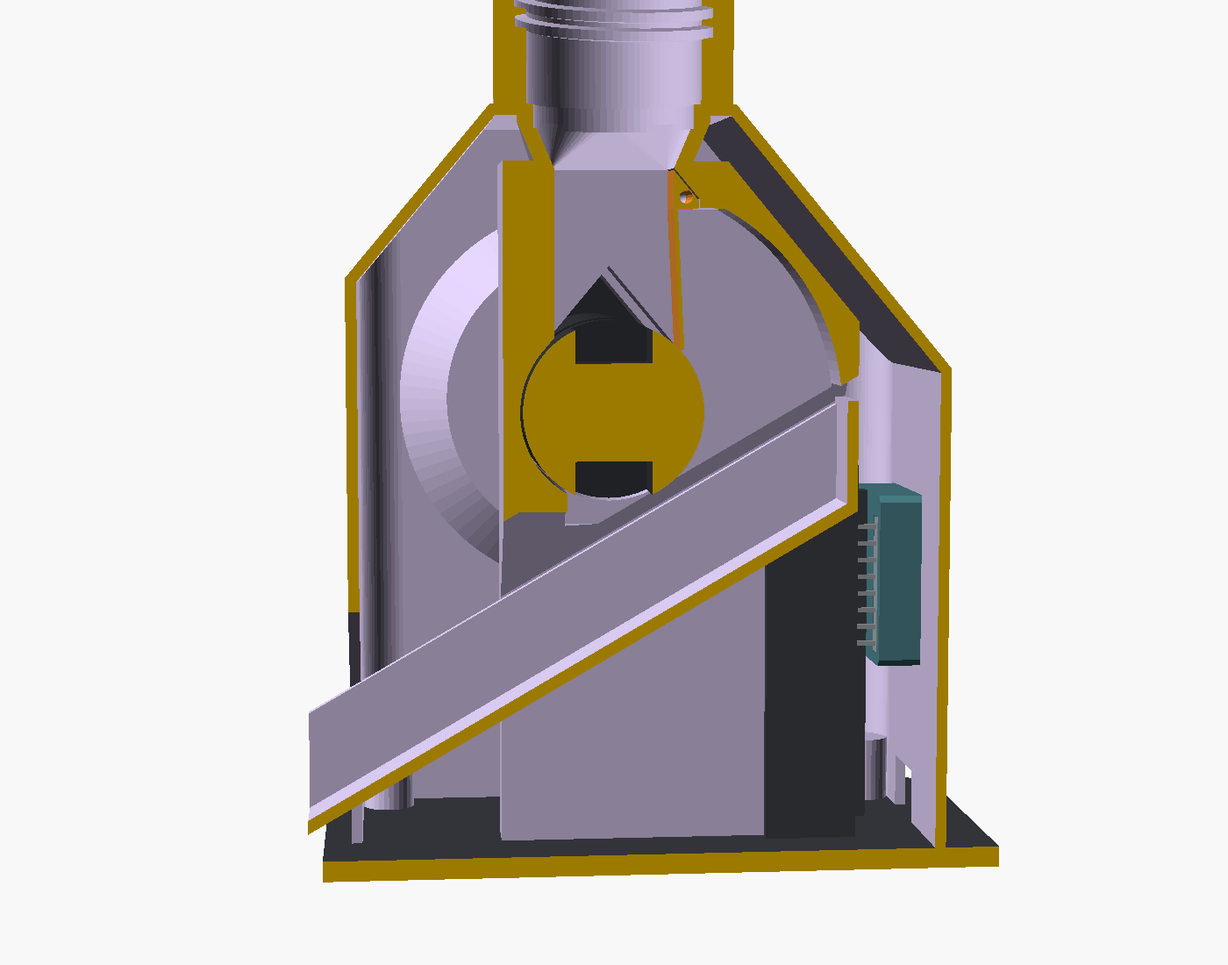
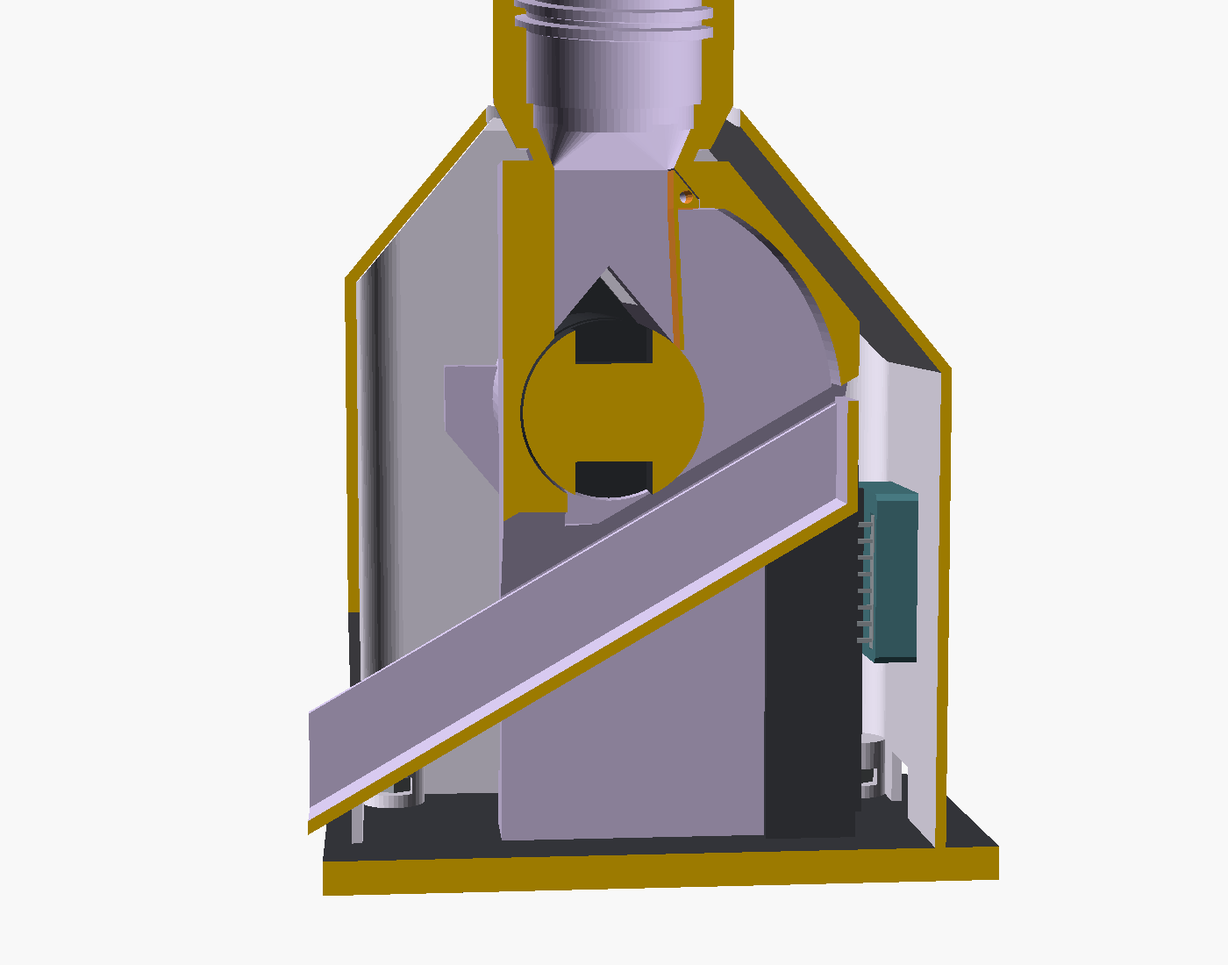
feat(treat-dispenser): fastener and wiring checks, docs for the inner/outer body split
- Renderer: every nut bay open at the nut and its slot's mouth, solid beside its flats; one teardrop for the sleeve (no
  coincident faces with the lugs: no float32 sliver repairs).
- Views tool: views inside (the outer body left out) and the jumper wires' room measured on the meshes.
- Browser: the live assembly shows the inner and outer bodies, the motor, the ULN2003 and all 16 screws and 16 nuts; the outer
  body hides.
- Docs, print notes and description: inner and outer bodies, M3 nuts and screws, service, both header rows wireable.

diff --git a/tools/test-renderer.ts b/tools/test-renderer.ts
@@ -3,7 +3,7 @@ import { mkdtemp, readFile, rm } from 'node:fs/promises';
 import { tmpdir } from 'node:os';
 import { join } from 'node:path';
 import { unzipSync } from 'fflate';
-import { DEFAULT_TREAT_DISPENSER, poseLocal, treatDispenser, treatDispenserLayout, treatPartPoses, type TreatDispenserParameters, ESP32_CASE_HEADER_OPENINGS, ESP32_CASE_HEADER_DEFINES, ESP32_CASE_LEDS, esp32C3SuperminiCase, cameraHousing, cameraHousingLayout, CAMERA_HARDWARE, DEFAULT_CAMERA_HOUSING, type CameraHousingParameters, activeParts, magneticCatToy, magneticCatToyLayout, TOY, catCollarTag, catCollarTagSettings, collarTagLayout, COLLAR_TAG_SHAPES, springBallDetent, springBallDetentLayout, type SpringBallDetentSize, printedCornerBracket, printedScreenHook, printedScreenHookShape, maxLogoSize, QR_TAG, QR_TAG_JOINTS, QR_TAG_SHAPES, qrMagnetTag, qrTagCode, qrTagLayout, qrTagSettings, type QrMagnetTagParameters, aiRubberDuck, AI_DUCK_VARIANTS, CASE_MAGNETS, cigaretteCase, findPart, SNAP_TUNING, fruitFlyTrap, holeDiameter, LATCH_MACHINE_SCREWS, LATCH_WOOD_SCREWS, litterShovel, mossPlanter, plankConnector, pressurePad, SCOOP_BLADE, windowCatGuard, windowCatGuardLayout, WINDOW_CAT_GUARD, WINDOW_CAT_GUARD_SPLICE, type WindowCatGuardParameters, toggleLatch, outsideCornerToggleLatch, cornerLatchLayout, latchScrewHoles, dimensionOf, type OutsideCornerToggleLatchParameters, sieveGaps, svgToLogo, textWidth, validateParameters, type LitterShovelParameters, type ParameterValues } from '@canfactory/contracts';
+import { DEFAULT_TREAT_DISPENSER, poseLocal, treatBolts, treatDispenser, treatDispenserLayout, treatPartPoses, type TreatDispenserParameters, ESP32_CASE_HEADER_OPENINGS, ESP32_CASE_HEADER_DEFINES, ESP32_CASE_LEDS, esp32C3SuperminiCase, cameraHousing, cameraHousingLayout, CAMERA_HARDWARE, DEFAULT_CAMERA_HOUSING, type CameraHousingParameters, activeParts, magneticCatToy, magneticCatToyLayout, TOY, catCollarTag, catCollarTagSettings, collarTagLayout, COLLAR_TAG_SHAPES, springBallDetent, springBallDetentLayout, type SpringBallDetentSize, printedCornerBracket, printedScreenHook, printedScreenHookShape, maxLogoSize, QR_TAG, QR_TAG_JOINTS, QR_TAG_SHAPES, qrMagnetTag, qrTagCode, qrTagLayout, qrTagSettings, type QrMagnetTagParameters, aiRubberDuck, AI_DUCK_VARIANTS, CASE_MAGNETS, cigaretteCase, findPart, SNAP_TUNING, fruitFlyTrap, holeDiameter, LATCH_MACHINE_SCREWS, LATCH_WOOD_SCREWS, litterShovel, mossPlanter, plankConnector, pressurePad, SCOOP_BLADE, windowCatGuard, windowCatGuardLayout, WINDOW_CAT_GUARD, WINDOW_CAT_GUARD_SPLICE, type WindowCatGuardParameters, toggleLatch, outsideCornerToggleLatch, cornerLatchLayout, latchScrewHoles, dimensionOf, type OutsideCornerToggleLatchParameters, sieveGaps, svgToLogo, textWidth, validateParameters, type LitterShovelParameters, type ParameterValues } from '@canfactory/contracts';
 import { inspectStl, ObjectStorage, PostgresStorage, renderJob, repositoryRoot, selectRunner, WORKER_LIMITS, type MeshRepair, type RenderJob } from '@canfactory/server';
 import { createApp } from '../apps/api/src/app.ts';
 import { startStorageServices } from './storage-services.ts';
@@ -1208,7 +1208,7 @@ try {
     for (const id of Object.keys(entries)) assert.equal(shells(mesh(id.replace(/\.stl$/, ''))), 1, `${name}: ${id} is one closed solid`);
     const l = treatDispenserLayout(parameters), poses = treatPartPoses(l);
     // a point of W inside a part's print
-    const solid = (id: 'inner-body' | 'rotor', point: [number, number, number]) => housingSolid(mesh(id), poseLocal(poses[id], point));
+    const solid = (id: 'inner-body' | 'outer-body' | 'rotor', point: [number, number, number]) => housingSolid(mesh(id), poseLocal(poses[id], point));
     // the rotor: open at both pockets, solid at its core and between them
     assert.equal(solid('rotor', [0, 0, l.axisZ + l.R - l.pocket.depth / 2]), false, `${name}: top pocket`);
     assert.equal(solid('rotor', [0, 0, l.axisZ - l.R + l.pocket.depth / 2]), false, `${name}: bottom pocket`);
@@ -1218,10 +1218,22 @@ try {
     assert.equal(solid('inner-body', [0, (l.R + l.cavityR) / 2, l.axisZ]), false, `${name}: cavity`);
     assert.equal(solid('inner-body', [0, -l.bore.radius - 1, l.axisZ]), true, `${name}: tight bore's wall in front`);
     assert.equal(solid('inner-body', [0, 0, (l.blockTop + l.lipZ) / 2]), false, `${name}: funnel`);
+    // every nut's bay is open at the nut's centre and at the mouth of its slot, in the part that holds it; solid round the hexagon's
+    // corners' side, beyond its flats (the slot is no wider than the flats)
+    for (const bolt of treatBolts(parameters)) {
+      const at = (d: number, e: number, side = 0): [number, number, number] => {
+        const across = [bolt.axis[1] * bolt.entry[2] - bolt.axis[2] * bolt.entry[1], bolt.axis[2] * bolt.entry[0] - bolt.axis[0] * bolt.entry[2], bolt.axis[0] * bolt.entry[1] - bolt.axis[1] * bolt.entry[0]];
+        return [0, 1, 2].map(k => (bolt.at[k] ?? 0) + (bolt.axis[k] ?? 0) * d + (bolt.entry[k] ?? 0) * e + (across[k] ?? 0) * side) as [number, number, number];
+      };
+      const middle = bolt.nutAt + l.bay.depth / 2;
+      assert.equal(solid(bolt.nutIn, at(middle, 1.5)), false, `${name}: ${bolt.id}'s nut bay`);
+      assert.equal(solid(bolt.nutIn, at(middle, bolt.slot - 0.3)), false, `${name}: ${bolt.id}'s slot`);
+      assert.equal(solid(bolt.nutIn, at(middle, -1, l.bay.across / 2 + 0.4)), true, `${name}: ${bolt.id}'s bay is held beside its flats`);
+    }
     const preview = await app.inject(`/api/v1/renders/${job.id}/zip`), download = await app.inject(`/api/v1/renders/${job.id}/zip?download=true`);
     assert.equal(preview.statusCode, 200); assert.equal(download.statusCode, 200);
     assert.deepEqual(preview.rawPayload, bytes); assert.deepEqual(download.rawPayload, bytes);
-    console.log(`PASS treat dispenser ${name}: 10 closed prints, open pockets, slot, cavity and funnel, a solid tight bore, matching preview/download bytes`);
+    console.log(`PASS treat dispenser ${name}: 10 closed prints, open pockets, slot, cavity and funnel, a solid tight bore, open nut bays, matching preview/download bytes`);
   }
   assert.deepEqual(repairs, [], `Renders needed float32 sliver repairs (fragile geometry):\n${repairs.join('\n')}`);
 } finally {

diff --git a/packages/contracts/src/models.ts b/packages/contracts/src/models.ts
@@ -3568,14 +3568,14 @@ const treatParts: { id: string; title: string }[] = [
 ];
 export const treatDispenser = {
   id: 'treat-dispenser' as const, version: '3' as const, title: 'PET-bottle treat dispenser',
-  description: 'A gumball-style treat dispenser for an inverted 0.5 l PET bottle: the treats fall onto a rotor with two pockets, which a 28BYJ-48 turns half a turn per press, only ever forwards; a sprung TPU flap closes the slot behind the rotor, and a pocket drops what it holds down a chute out of the front. 0, 1 or a few treats may come out per press. The ULN2003 board and an ESP32-C3 SuperMini in the existing sliding-lid case sit inside the body, the case’s B and R buttons in its back wall; one USB-C cable powers everything. Prototype: treats can bridge in the bottle’s neck (#140). Simulate it: press B on the back.',
+  description: 'A gumball-style treat dispenser for an inverted 0.5 l PET bottle: the treats fall onto a rotor with two pockets, which a 28BYJ-48 turns half a turn per press, only ever forwards; a sprung TPU flap closes the slot behind the rotor, and a pocket drops what it holds down a chute out of the front. 0, 1 or a few treats may come out per press. An inner body carries the mechanism, the motor and the ULN2003 board; an outer body covers it, with an ESP32-C3 SuperMini in the existing sliding-lid case in its back wall (B and R pressable, both header rows free for jumper wires); everything is held by M3 screws and hex nuts; one USB-C cable powers everything. Prototype: treats can bridge in the bottle’s neck (#140). Simulate it: press B on the back.',
   attribution: 'After bovineblitz’s Cat treat gumball-style dispenser (CC BY-NC 4.0) and cylus80’s Mason Jar Candy Dispenser (CC BY 4.0), redrawn by CanFactory; ESP32-C3 SuperMini case by Vinors3DLab, adapted by CanFactory',
   attributionLinks: [
     { text: 'bovineblitz', url: 'https://makerworld.com/en/models/190887' },
     { text: 'cylus80', url: 'https://www.thingiverse.com/thing:2103924' },
     { text: 'Vinors3DLab', url: 'https://www.makeronline.com/en/model/Ultra-Compact-Case-for-ESP---C--SuperMini--step-file-/338531.html' },
   ],
-  printNotes: 'PETG, 0.2 mm layers, four perimeters; the flap in 95A TPU. Print every part without supports (they are drawn to need none; automatic supports would fill the thread and stand in the rotor’s bore and slot): the body upright on its open bottom, the rotor on its motor end, the bearing cap on its flange, the chute on its floor, the flap, the base plate and the coupon flat. The reused ESP32 case parts print as their own model says. Print the thread coupon first and screw it onto your bottle: tune Thread clearance until it runs on and off by hand without wobble. Fasteners: CNC Kitchen M3 × 5.7 heat-set inserts with ISO 4762 screws, M3 × 6 for the motor (two), M3 × 10 for the cap (two, in the left wall) and the base plate (four); M2.5 × 8 screws for the ULN2003 board; about 55 mm of 1.75 mm filament as the flap’s pin. To clear or clean the rotor, unscrew the cap on the left side and slide the rotor out; pull the pin to change the flap. Printed plastic is not automatically food-safe. Prototype: not validated for unattended feeding; treats can bridge in the bottle’s neck (docs/treat-dispenser.md). The ESP32 case parts are adapted from Vinors3DLab’s CC BY-NC-SA 4.0 release and the mechanism from bovineblitz’s CC BY-NC 4.0 one, so the whole model is shared under CC BY-NC-SA 4.0.',
+  printNotes: 'PETG, 0.2 mm layers, four perimeters; the flap in 95A TPU. Print every part without supports (they are drawn to need none; automatic supports would fill the thread and stand in the rotor’s bore and slot): the inner body upright on its legs and feet, the outer body upright on its open bottom, the rotor on its motor end, the bearing cap on its flange, the chute on its floor, the flap, the base plate and the coupon flat. The reused ESP32 case parts print as their own model says. Print the thread coupon first and screw it onto your bottle: tune Thread clearance until it runs on and off by hand without wobble. Fasteners: 16 ISO 4032 M3 hex nuts in printed bays (slide each in before its screw; the bays are 5.8 mm across the flats) and ISO 4762 M3 screws: M3 × 6 for the motor’s ears (two), M3 × 8 for the ULN2003 board (four), the inner body’s feet (four) and the outer body’s corners (four), M3 × 10 for the bearing cap (two); about 55 mm of 1.75 mm filament as the flap’s pin. To clear or clean the rotor, unscrew the cap on the left side and slide the rotor out. To reach the motor, the ULN2003 or the SuperMini’s header pins, unscrew the bottle, the cap and the four corner screws under the base plate and lift the outer body off. Printed plastic is not automatically food-safe. Prototype: not validated for unattended feeding; treats can bridge in the bottle’s neck (docs/treat-dispenser.md). The ESP32 case parts are adapted from Vinors3DLab’s CC BY-NC-SA 4.0 release and the mechanism from bovineblitz’s CC BY-NC 4.0 one, so the whole model is shared under CC BY-NC-SA 4.0.',
   license: 'CC BY-NC-SA 4.0', licenseUrl: 'https://creativecommons.org/licenses/by-nc-sa/4.0/',
   parts: [
     ...treatParts.map(({ id, title }): ModelPart => ({ id, title, sourcePath: 'models/treat-dispenser/generator.scad', scadMapping: TREAT_MAPPING, scadConstants: { PART: id } })),

diff --git a/tests/browser/treat-dispenser.spec.ts b/tests/browser/treat-dispenser.spec.ts
@@ -1,4 +1,5 @@
 import { test, expect, type Page } from '@playwright/test';
+import { DEFAULT_TREAT_DISPENSER, treatBolts, treatDispenser } from '@canfactory/contracts';
 
 /** The bodies' poses the viewer last reported (`data-physics-poses`): id → [x, y, z, qw, qx, qy, qz]. */
 async function poses(page: Page): Promise<Record<string, number[]>> {
@@ -77,5 +78,33 @@ test('dispenses from the BOOT button on the case in the back wall: the motor tur
   await page.getByRole('button', { name: 'Simulate', exact: true }).click();
   await expect(viewer).not.toHaveAttribute('data-physics', /.*/);
   await expect(page.locator('.controller-hotspot')).toHaveCount(0);
+  expect(errors).toEqual([]);
+});
+
+test('shows the inner and outer bodies, the motor, the ULN2003 and every M3 screw and nut in the live assembly; the outer body hides', async ({ page }, testInfo) => {
+  const errors: string[] = [];
+  page.on('pageerror', error => errors.push(error.message));
+  await page.goto('/#/models/treat-dispenser');
+  await expect(page.getByRole('button', { name: 'Download ZIP', exact: true })).toBeEnabled({ timeout: 300_000 });
+  const viewer = page.getByTestId('stl-viewer');
+  const slider = page.getByRole('slider', { name: 'Assembly' });
+  await slider.press('Home');
+  await slider.press('ArrowRight');
+  await slider.press('ArrowRight');
+  await expect(slider).toHaveAttribute('aria-valuetext', /^Step 1 of \d+ · Push two M3 nuts into the inner body’s motor bays, from the front$/);
+  await slider.press('End');
+  await expect(slider).toHaveAttribute('aria-valuetext', 'Assembled');
+  const bolts = treatBolts(DEFAULT_TREAT_DISPENSER);
+  const fasteners = bolts.flatMap(bolt => [`${bolt.id}-screw`, `${bolt.id}-nut`]);
+  expect(fasteners).toHaveLength(32);
+  const visible = async () => new Set((await viewer.getAttribute('data-visible-parts') ?? '').split(' '));
+  await expect.poll(async () => [...await visible()].filter(id => fasteners.includes(id)).length, { timeout: 60_000 }).toBe(32);
+  for (const id of ['inner-body', 'outer-body', 'motor', 'driver', 'board', 'header-1', 'header-2']) expect((await visible()).has(id), id).toBe(true);
+  // hide the outer body: the mechanism, the boards and every fastener stay in view
+  const outer = treatDispenser.parts.find(part => part.id === 'outer-body');
+  await page.getByTitle(`Hide ${outer?.title ?? ''}`).click();
+  await expect.poll(async () => (await visible()).has('outer-body')).toBe(false);
+  for (const id of ['inner-body', 'motor', 'driver', ...fasteners]) expect((await visible()).has(id), id).toBe(true);
+  await page.screenshot({ path: testInfo.outputPath('inside.png'), fullPage: true });
   expect(errors).toEqual([]);
 });

diff --git a/packages/contracts/src/treatDispenser.ts b/packages/contracts/src/treatDispenser.ts
@@ -10,8 +10,9 @@ import type { Point2 } from './physicsPieces.ts';
  * (MakerWorld 190887, CC BY-NC 4.0), itself after cylus80's "Mason Jar Candy Dispenser" (Thingiverse 2103924, CC BY 4.0). An
  * inverted 0.5 l PET bottle screws into the top of the body; its treats fall through a funnel onto a horizontal rotor with two
  * pockets, which a 28BYJ-48 turns directly (in place of the original's handle); each half turn a pocket carries what it holds from
- * under the funnel to the drop below it, onto a chute that runs out of the front. The ULN2003 board and the ESP32-C3 SuperMini case
- * live inside the body, the case's lid flush in its back wall so that B and R can be pressed.
+ * under the funnel to the drop below it, onto a chute that runs out of the front. Two bodies: the inner body carries the thread, the
+ * mechanism, the motor and the ULN2003 board; the outer body covers it, the ESP32-C3 SuperMini case's lid flush in its back wall so
+ * that B and R can be pressed. Every fastener is an M3 screw into a hex nut in a printed bay (`treatBolts`).
  *
  * One frame for everything, the assembled frame W: Z up, the floor at z = 0, the rotor's axis along X at y = 0, the chute running out
  * towards −Y (the front). All lengths mm, angles degrees. Each part is drawn in W and printed in its own orientation (its pose).

diff --git a/packages/contracts/src/treatDispenser.test.ts b/packages/contracts/src/treatDispenser.test.ts
@@ -192,7 +192,7 @@ describe('treat dispenser assembly and electronics', () => {
       expect(assembly.poses[`${bolt.id}-screw`]).toEqual(poses.screw);
       expect(assembly.poses[`${bolt.id}-nut`]).toEqual(poses.nut);
       // the screw's head (its own frame: tip at z = 0, the head from z = l) bears at the bolt's seat; the nut's flats lie along its slot
-      const length = dimensionOf(findPart(bolt.screw) ?? findPart(TREAT_FASTENERS.nut)!, 'l');
+      const length = dimensionOf(findPart(bolt.screw) ?? findPart(TREAT_FASTENERS.nut) ?? (() => { throw new Error('Missing the nut.'); })(), 'l');
       posePoint(poses.screw, [0, 0, length]).forEach((v, k) => expect(v).toBeCloseTo(bolt.at[k] ?? 0, 6));
       // the nut's flats are across its own X: its +X maps to the bay's axis × entry
       const across = posePoint({ position: [0, 0, 0], rotation: poses.nut.rotation }, [1, 0, 0]);

diff --git a/docs/treat-dispenser.md b/docs/treat-dispenser.md
@@ -17,18 +17,26 @@ anything; that is issue #140, left for later.
 
 | Part | What it does |
 | --- | --- |
-| Body | One print: the bottle's thread and the deck its lip rests on, a funnel into the slot, the rotor's block (bore, slot, the drop under the rotor and a cavity behind it), the motor's plate, legs either side of the chute, the ESP32 case's window in the back wall, standoffs for the ULN2003 board, and an opening in the left wall for the rotor. Open at the bottom. |
+| Inner body | The bottle's thread, a funnel into the slot, the rotor's block (bore, slot, the drop under the rotor and a cavity behind it), legs either side of the chute and four feet screwed to the base plate; the motor on the block's +X face; the ULN2003 board on four standoffs off the right leg; a sleeve carrying the bore out to the left, ending in two lugs for the bearing cap's screws. Every nut sits in a bay of its own. |
+| Outer body | The cover: walls and a gable top, open at the bottom, lowered over the inner body (the thread's boss comes up through its top) and screwed to the base plate at its four corners. The ESP32 case's window in its back wall, the rotor's opening in its left wall, the chute's way out of the front. |
 | Rotor | Ø26 × 24 mm, two pockets 16 × 11 × 6 mm (for 14 × 9 × 5 treats with 1 mm of clearance), a D-bore onto the motor's flatted shaft at one end, a Ø8 stub into the cap at the other. |
-| Flap | 95A TPU, 0.6 mm thick: rests on the rotor just behind the slot, sprung 10° past touching, its square root block held in a recess over the cavity by a 1.75 mm filament pin through the left wall. |
-| Bearing cap | A tube through the left wall's opening into the bore, up to the rotor's end, where it takes the rotor's stub; its flange screws to the wall's outside (two M3 into inserts). |
+| Flap | 95A TPU, 0.6 mm thick: rests on the rotor just behind the slot, sprung 10° past touching, its square root block held in a recess over the cavity by a 1.75 mm filament pin through the block's left face. |
+| Bearing cap | A tube through the outer body's left wall and the inner body's sleeve into the bore, up to the rotor's end, where it takes the rotor's stub; its flange sits on the wall's outside, its two M3 × 10 screws through the wall into nuts in the inner body's lugs (clamping the wall). |
 | Chute | 30°, from under the rotor out through the front wall; pushed up between the legs from below and held by the base plate. |
-| Base plate | Closes the bottom (four M3 into inserts); sized so that a full bottle leans 20° before the dispenser tips; a keeper behind the ESP32 case. |
+| Base plate | 5 mm; closes the bottom; eight M3 × 8 screws from below in counterbores (four into the inner body's feet, four into the outer body's corners); sized so that a full bottle leans 20° before the dispenser tips; a keeper behind the ESP32 case. |
 | Thread coupon | Ten millimetres of the body's thread: print it first and fit it to your bottle. |
 | ESP32-C3 case base and lid | The existing case's two parts, unchanged ([attribution](../models/treat-dispenser/ATTRIBUTION.md)). |
 
-Bought: a 28BYJ-48 (5 V), a ULN2003 board, an ESP32-C3 SuperMini, 8 CNC Kitchen M3 × 5.7 heat-set inserts, M3 ISO 4762 screws (2 ×
-6 mm for the motor, 6 × 10 mm for the cap and the base plate), 4 M2.5 × 8 for the ULN2003 board, jumper wires, and a few centimetres
-of 1.75 mm filament for the flap's pin.
+Bought: a 28BYJ-48 (5 V), a ULN2003 board, an ESP32-C3 SuperMini, 16 ISO 4032 M3 hex nuts and ISO 4762 M3 screws (2 × 6 mm for the
+motor, 12 × 8 mm for the ULN2003 board, the feet and the corners, 2 × 10 mm for the cap), jumper wires, and a few centimetres of 1.75
+mm filament for the flap's pin. No heat-set inserts.
+
+**Fasteners.** Every screw goes into an ISO 4032 M3 nut held in a printed bay (`treatBolts`): a hexagon 5.8 mm across its flats (the
+library's 5.5 mm at its largest, 0.15 mm of play each side; 6.70 across its corners against the nut's 6.01) and 2.7 mm deep (2.4
+nut), and a slot as wide as across the flats into which the nut slides from one side, so that it cannot turn. The bays open where they
+can be reached: the motor's from the block's front face, the ULN2003's and the cap's from above, the feet's outwards, the corners'
+from inside. Each screw and nut is a part-library reference in the assembly, at its pose, and moves in its step; the editor's
+hardware list counts them.
 
 Every dimension is computed in `packages/contracts/src/treatDispenser.ts` and passed to `models/treat-dispenser/generator.scad` as one
 list (`treatScadLayout`), so the CAD, the assembly poses and the physics' collision pieces come from the same numbers; a test checks
@@ -66,50 +74,72 @@ What it cannot prevent: treats that arch in the bottle's 21.7 mm neck (#140) or 
 
 ### Assembly and service
 
-`npm run check:assembly -- treat-dispenser` passes: the assembled parts, the exploded layout and every step's path collide nowhere
-(also for the smallest and largest treats and the PCO 1810 neck). In order:
+`npm run check:assembly -- treat-dispenser` passes: the assembled parts, every screw and nut, the exploded layout and every step's
+path collide nowhere (also for the smallest and largest treats and the PCO 1810 neck). In order:
 
-1. Lift the motor in from below: its shaft comes up a slot under the bore; two M3 × 6 screws through its ears into inserts in the
-   block's plate.
-2. Push the flap up into its recess over the cavity's roof, from below, and pin it: push the filament through the hole in the left
-   wall, through the flap's root block, into the blind hole beyond; trim it flush.
-3. Slide the rotor in through the left wall onto the motor's shaft; close the opening with the cap (two M3 × 10 into inserts).
-4. Screw the ULN2003 board to its standoffs on the right side wall; plug in the motor.
-5. Push the ESP32-C3 case into the back wall's window from behind, lid out, USB-C down.
+1. Slide the nuts into the inner body's bays: two into the motor's from the block's front face, four into the ULN2003's standoffs and
+   two into the cap's lugs from above, four into the feet from the side.
+2. Put the motor on the block's +X face from the side, its shaft and boss into the hole, its can in front; two M3 × 6 through its ears.
+3. Screw the ULN2003 board to its standoffs under the motor (four M3 × 8), its parts facing out; plug in the motor and the jumper
+   wires (IN1–IN4, + and −).
+4. Push the flap up into its recess over the cavity's roof, from below, and pin it: push the filament through the hole in the
+   block's left face, through the flap's root block, into the blind hole beyond; trim it flush.
+5. Slide four nuts into the outer body's corner columns from inside; lower it over the inner body, the thread through its top, the
+   jumper wires out through the case's window.
 6. Push the chute up between the legs from below, its end through the front wall.
-7. Screw the base plate on (four M3 × 10 into inserts); it holds the chute and stops the case from being pushed in.
+7. Screw the base plate on from below: four M3 × 8 into the inner body's feet, four into the outer body's corners; it holds the chute
+   and stops the case from being pushed in.
+8. Slide the rotor in through the left wall onto the motor's shaft; close the opening with the cap (two M3 × 10 into the lugs).
+9. Plug the jumper wires onto either of the SuperMini's header rows; push the case into the back wall's window from behind, lid out,
+   USB-C down.
 
-**To clear the rotor** (a broken treat, crumbs): unscrew the cap on the left and slide the rotor out; nothing else comes apart. To
-change the flap, also pull its pin.
+**To clear the rotor** (a broken treat, crumbs): unscrew the cap on the left and slide the rotor out; nothing else comes apart. **To
+reach the motor, the ULN2003 or the SuperMini's pins**: unscrew the bottle, the cap and the four corner screws under the base plate,
+and lift the outer body off (pull the case out of its window first, or unplug its jumpers); the inner body with everything on it
+stays on the base plate. To change the flap, also pull its pin.
+
+![Inside, the outer body left out: the motor on the block's right face with its two screws, the ULN2003 board on its standoffs under it, the feet's nuts and screws](treat-dispenser/inside-right.png)
+
+![Inside from the front left: the cap's flange and screws on the sleeve's lugs, the ESP32 case in the back with both header rows free in front](treat-dispenser/inside-left.png)
 
 ### Packaging
 
-99 × 101 × 129 mm assembled (without the bottle), on a 99 × 99 mm base plate: with a full 0.5 l bottle (Ø65 mm) it leans 20° before it
-tips. `tools/treat-dispenser-views.ts` renders every part as the worker does and slices it with PrusaSlicer 2.5 and one fixed profile
-(`tools/treat-dispenser.ini`: 0.4 mm nozzle, 0.2 mm layers, PETG, four perimeters):
+105 × 101 × 131 mm assembled (without the bottle), on a 105 × 99 mm base plate: with a full 0.5 l bottle (Ø65 mm) it leans 20° before
+it tips. The outer body is 89 mm wide (41.5 → 44.5 mm half width) so that the jumper plugs on the ULN2003's pins have room to the
+wall, and the base plate is 5 mm thick (was 3) for the screw heads' counterbores. `tools/treat-dispenser-views.ts` renders every part
+as the worker does; the solid volumes of this revision (no slicer was available when it was made, so the slicer figures below are
+not re-run):
 
-| Part | Filament (g) | Print time |
+| Part | Solid volume (cm³) | Size as printed (mm) |
 | --- | --- | --- |
-| Body | 149.3 | 12 h 48 min |
-| Rotor | 8.3 | 44 min |
-| Flap (TPU) | 0.4 | 4 min |
-| Bearing cap | 12.5 | 1 h 7 min |
-| Chute | 9.1 | 54 min |
-| Base plate | 29.8 | 3 h 43 min |
-| Thread coupon | 4.7 | 22 min |
-| ESP32 case base and lid (automatic supports, 1.8 g of it) | 3.5 | 21 min |
-| **All** | **217.7** | |
+| Inner body | 76.9 | 66 × 59 × 126 |
+| Outer body | 57.6 | 89 × 87 × 108 |
+| Rotor | 10.8 | 26 × 26 × 29 |
+| Flap (TPU) | 0.3 | 16 × 26 × 4 |
+| Bearing cap | 14.7 | 46 × 46 × 35 |
+| Chute | 7.2 | 20 × 100 × 15 |
+| Base plate | 53.1 | 105 × 99 × 5 (with its posts and keeper, 61 high) |
+| Thread coupon | 3.8 | 34 × 34 × 10 |
+| ESP32 case base and lid | 2.2 | |
+| **All** | **226.8** (one body before the split: 197.9) | |
+
+With PrusaSlicer 2.5 and `tools/treat-dispenser.ini` (0.4 mm nozzle, 0.2 mm layers, PETG, four perimeters) the single-body revision
+came to 217.7 g; set `PRUSA_SLICER` to re-slice this one.
+
+The same tool measures the **jumper wires' room** (`treatWiringRoom`) on the meshes: beyond the tips of both of the SuperMini's header
+rows (by a 14 mm housing less the 6 mm it takes of a pin, and a 6 mm bend; a housing's width and 1.5 mm to each side), and beyond the
+ULN2003's input pins, supply pins and motor socket, no part reaches in; it fails otherwise.
 
 **CanFactory's parts print without supports**: every overhang is 50° or steeper (the gable top and the right side's hip, the
-teardrop holes, the chute way's ceiling, the gussets), a short bridge (the flat strip either side of the thread's boss, 31 mm; the
-cavity's round top, across its 16 mm between the side walls; the case window, 22 mm), or the thread's own groove (1.6 mm deep). The
+teardrop holes, the sleeve's teardrop section and the lugs' undersides, the chute way's ceiling, the standoffs' gussets), a short bridge (the flat strip either side of the boss's opening, 31 mm; the
+cavity's round top, across its 16 mm between the side walls; the case window, 22 mm; the nut slots' ceilings, at most 5.8 mm), or the thread's own groove (1.6 mm deep). The
 cavity keeps its round top on purpose: a ceiling sloped at 50° stopped the flap swinging back at about 45° and wedged treats under it
-in the trials (6 stalls in 40). With automatic supports on every part the slicer adds 31.8 g
-(230.9 g in all), most of it in the thread, from columns that would stand in the slot, the bore and the drop: switch supports off for
-the body. For comparison, the same tool and profile gave 283.4 g (49.4 g of support) for the first notch-disc design and 233.3 g
+in the trials (6 stalls in 40). With automatic supports on every part the slicer added 31.8 g to the
+single-body revision, most of it in the thread, from columns that would stand in the slot, the bore and the drop: switch supports off
+for the inner body. For comparison, the same tool and profile gave 283.4 g (49.4 g of support) for the first notch-disc design and 233.3 g
 (23.2 g) for its compact revision.
 
-![Cutaway through the middle: the bottle's thread and funnel, the slot over the rotor, the flap on the rotor's back and the cavity behind it, the chute under the drop, the ULN2003 on the right wall](treat-dispenser/cutaway.png)
+![Cutaway through the middle: the bottle's thread and funnel, the slot over the rotor, the flap on the rotor's back and the cavity behind it, the chute under the drop, the outer body round it](treat-dispenser/cutaway.png)
 
 ![The assembled dispenser: gable top round the thread's boss, the chute's way out of the front, the base plate](treat-dispenser/three-quarter.png)
 
@@ -156,10 +186,14 @@ Avoided: GPIO2, GPIO8 and GPIO9 (strapping pins; GPIO8 is the blue LED and must 
 GPIO18/19 (USB), GPIO20/21 (UART). GPIO5, 6, 7 and 10 are on the same header row (H1). The library does not know which ULN2003 header
 pin is which on every clone: read your board's silkscreen. If the rotor turns backwards, change the firmware's `direction`.
 
-Inside the body: the ESP32 case stands upright in a window in the **back wall**, its lid flush with the outside, so that **B and R
-are pressable from behind**; its USB-C end points down, 25 mm over the floor, and the cable comes in through a notch at the foot of
-the back wall. The ULN2003 board stands on four standoffs on the **right side wall**, its parts facing in, under the motor. The
-motor's 250 mm lead reaches it with room to spare.
+Inside: the ESP32 case stands upright in a window in the outer body's **back wall**, its lid flush with the outside, so that **B and
+R are pressable from behind**; its USB-C end points down, 25 mm over the base plate, and the cable comes in through a notch at the
+foot of the back wall. **Both header rows can be wired**: the pins point into the body, and the case sits far enough left that even
+the row nearer the rotor's block has a jumper plug's width and 1.5 mm beside the inner body's left face, with 14 mm free beyond the
+pins' tips for the housings and the wires' bend (an earlier revision had that row against the block). Which row you use depends on
+the GPIOs you choose; the default wiring above uses H1. The ULN2003 board stands on four standoffs off the **inner body's right
+leg**, under the motor, its parts facing out towards the outer body's right wall, which is far enough away for the plugs on its
+pins. The motor's 250 mm lead reaches it with room to spare.
 
 ### BOOT and RESET
 
@@ -346,13 +380,16 @@ change it.
 | Flap | 0.6 mm 95A TPU, 0.03 N·mm per degree, 10° preload | E ≈ 26 MPa for 95A TPU (typical, not measured); a strip 0.6 × 16 × 14 mm |
 | Plastic friction | 0.29 | `PHYSICS_MATERIALS` (PETG on acrylic) |
 | Bottle | PCO 1881, 0.5 l, Ø65 mm | ISBT drawing; diameter is a parameter |
-| Print fits | 0.4 mm rotor–bore, 0.15 mm cap in the bore, 0.3 mm thread | typical FDM; check with the coupon and a test print |
+| Print fits | 0.4 mm rotor–bore, 0.15 mm cap in the bore, 0.3 mm thread, nut bays 0.15 mm each side across the flats and 0.3 mm deeper than the nut | typical FDM; check with the coupon and a test print |
+| Jumper wires | DuPont-style housings 2.54 mm square, 14 mm long, taking 6 mm of a pin; 6 mm for the wire's bend | common jumper wires; no data sheet; measure yours |
+| ULN2003 board holes | Ø3 mm: M3 screws pass | library entry (estimated from Printables 1404255); measure your board |
 | USB supply | ≥ 1 A, 5 V | recommendation; the board's rating is unknown |
 
 ## Physical validation checklist
 
 1. Measure the delivered motor, ULN2003 board and SuperMini (the library's entries flag estimated values) before printing the body.
-2. Print the thread coupon; tune Thread clearance until it runs on by hand without wobble.
+2. Print the thread coupon; tune Thread clearance until it runs on by hand without wobble. Check that an M3 nut slides into a bay
+   of a test print and does not turn in it.
 3. Measure a bag of treats (largest length, width, thickness); set the parameters.
 4. Print the rotor and the cap; check that the rotor turns freely in the bore by hand and slides out through the left wall.
 5. Print the flap in TPU; check that it lies on the rotor with a little preload and gives way easily to a fingertip.
